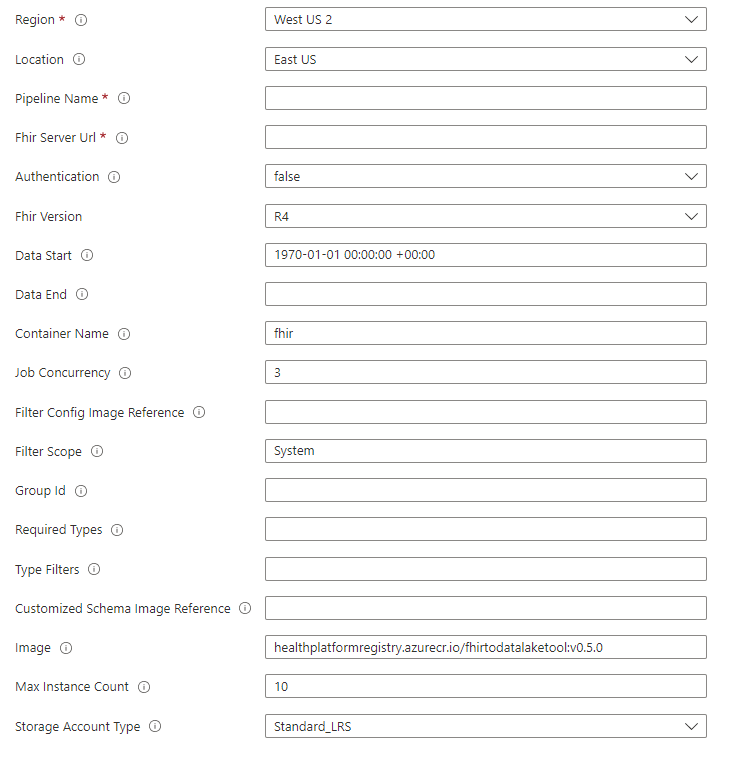
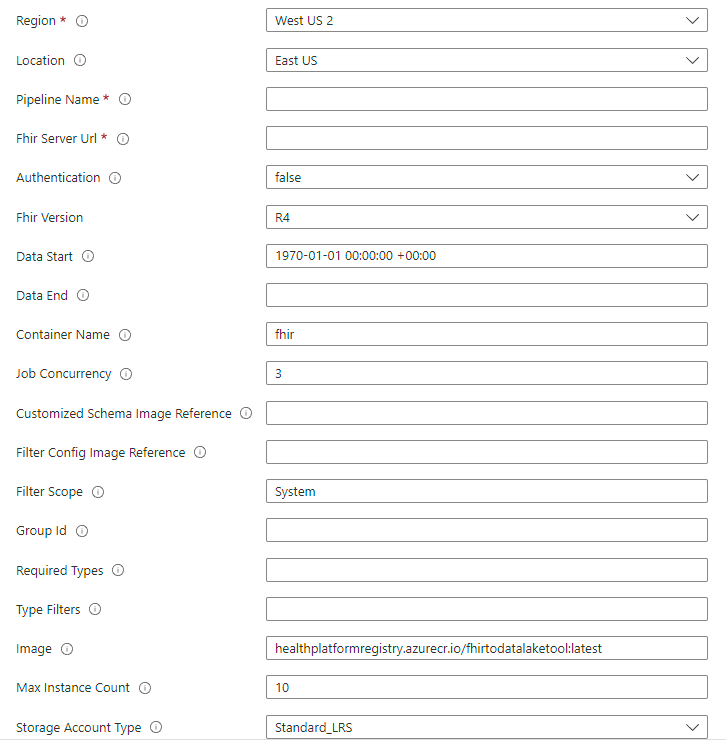
Update screen shots and root readme

diff --git a/README.md b/README.md
@@ -4,7 +4,7 @@
 
 This OSS project currently has the following two solutions:
 
-1. [FHIR to Synapse sync agent](FhirToDataLake/docs/Deployment.md): This is an Azure function that extracts data from a FHIR server using FHIR Resource APIs, converts it to hierarchial Parquet files, and writes it to Azure Data Lake in near real time. This also contains a [script](FhirToDataLake/scripts/Set-SynapseEnvironment.ps1) to create external tables and views in Synapse Serverless SQL pool pointing to the Parquet files.
+1. [FHIR to Synapse sync agent](FhirToDataLake/docs/Deployment.md): This is an [Azure Container App](https://learn.microsoft.com/en-us/azure/container-apps/?ocid=AID3042118) that extracts data from a FHIR server using FHIR Resource APIs, converts it to hierarchial Parquet files, and writes it to Azure Data Lake in near real time. This also contains a [script](FhirToDataLake/scripts/Set-SynapseEnvironment.ps1) to create external tables and views in Synapse Serverless SQL pool pointing to the Parquet files.
 
     This solution enables you to query against the entire FHIR data with tools such as Synapse Studio, SSMS, and Power BI. You can also access the Parquet files directly from a Synapse Spark pool. You should consider this solution if you want to access all of your FHIR data in near real time, and want to defer custom transformation to downstream systems.
 
